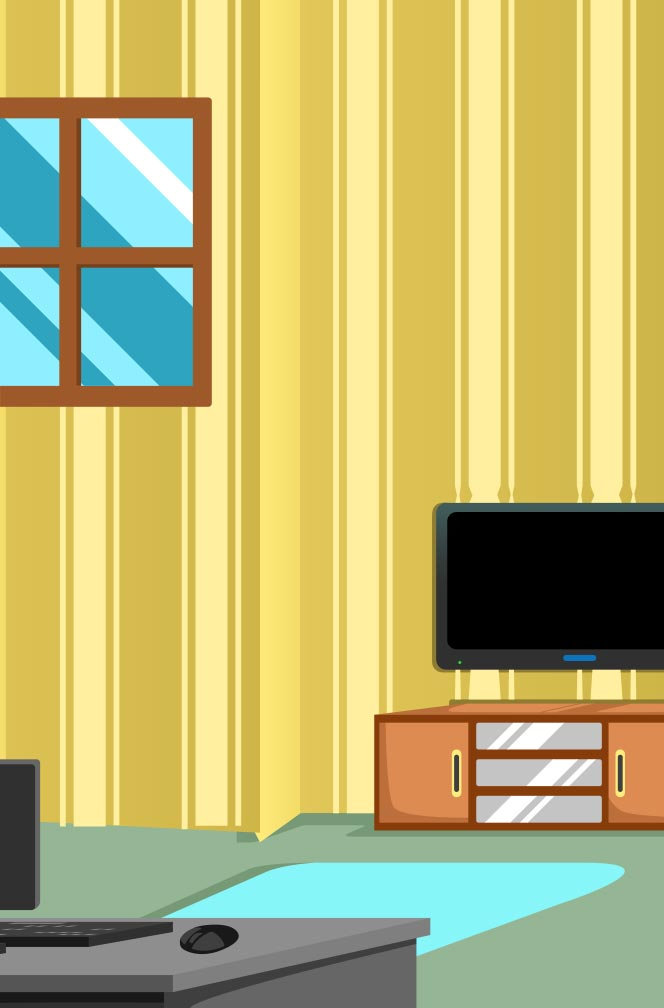
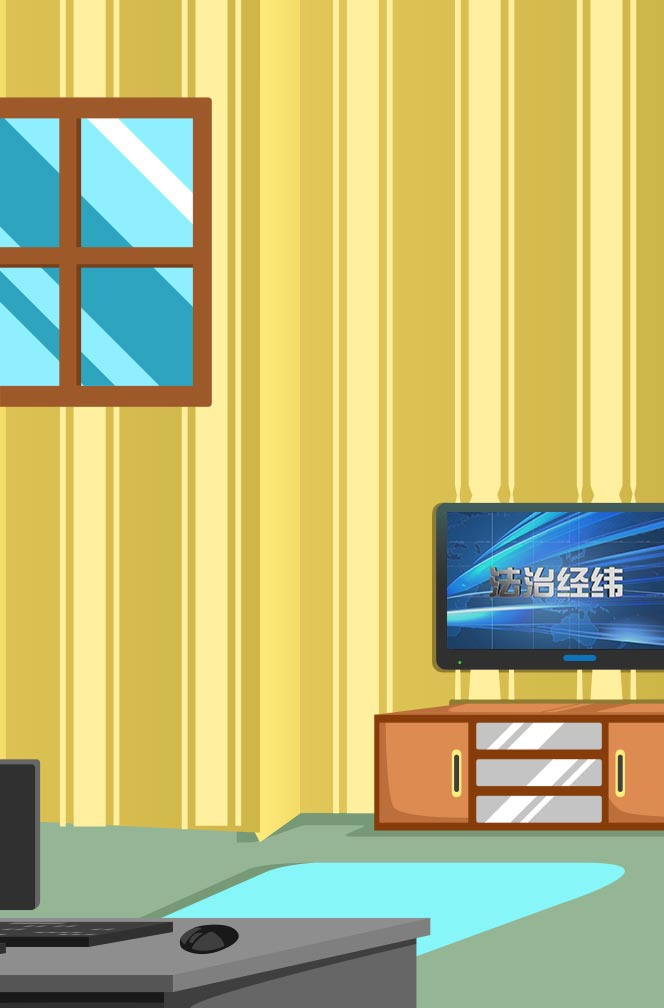
front 变换效果 第四页飞机轨迹

Changed region(s): [[0.6627, 0.4921, 1.0, 0.6458]]

diff --git a/style.scss b/style.scss
@@ -220,6 +220,25 @@ img {
   }
 }
 
+.front {
+  z-index: 1010;
+  visibility: hidden;
+  opacity: 0;
+  top: 50%;
+  left: 50%;
+  transform: translateX(-50%) translateY(-50%);
+}
+
+.front.active {
+  @include animation(fadeIn 1s);
+  visibility: visible;
+  opacity: 1;
+}
+
+.front.out {
+  @include animation(fadeOut 1s);
+}
+
 //page1
 .page1 {
   @include background(url("/images/1-bg1.jpg") center no-repeat);
@@ -260,7 +279,7 @@ img {
   .txt3 {
     top: 20%;
     left: 5%;
-    width: 30%;
+    width: 40%;
   }
   .mask {
     -webkit-mask-image: -webkit-linear-gradient(right, rgba(0, 0, 0, 1), rgba(0, 0, 0, 1));
@@ -291,22 +310,6 @@ img {
     visibility: hidden;
     opacity: 0;
     @include transition(all 2s);
-  }
-  .front {
-    z-index: 1010;
-    visibility: hidden;
-    opacity: 0;
-    top: 50%;
-    left: 50%;
-    transform: translateX(-50%) translateY(-50%);
-  }
-  .front.active {
-    @include animation(fadeIn 1s);
-    visibility: visible;
-    opacity: 1;
-  }
-  .front.out {
-    @include animation(fadeOut 1s);
   }
   //缓动
   .trans.active {
@@ -343,6 +346,12 @@ img {
     @include transition(all 2s);
     visibility: visible;
     opacity: 1;
+  }
+
+  video{
+    @include center;
+    width: 100%;
+    z-index:1010;
   }
 }
 
@@ -521,6 +530,10 @@ img {
   width: 50px;
 }
 
+.flash {
+  @include animation(flash 1.0s ease-in alternate-reverse infinite);
+}
+
 .plane.show,
 .plane-bottom.show {
   visibility: visible;
@@ -533,22 +546,47 @@ img {
   opacity: 0;
 }
 
-.plane-bottom.flash {
-  @include animation(flash 1.0s ease-in alternate-reverse infinite);
-}
-
 .plane.show-entry,
 .plane-bottom.show-entry {
   @include transition(all 1s);
 }
 
 .plane-bottom {
+  width: 90px;
+  .plane-wrapper {
+    position: relative;
+    width: 50px;
+    height: 50px;
+    margin: 0 auto;
+    .plane-bgc {
+      width: 100%;
+      height: 100%;
+      background-color: #ccc;
+      border: 2px solid #777;
+      border-radius: 50%;
+      @include transform(scale(0.7,
+      0.7));
+      opacity: 0.4;
+    }
+    img {
+      @include center;
+    }
+  }
   left: 50%;
-  bottom: 7%;
+  bottom: 5%;
   @include transform(translateX(-50%));
-  font-size: 12px;
   .plane-txt {
+    display: block;
+    margin: 0 auto;
+    text-align: center;
     line-height: 20px;
+    font-size: 14px;
+    font-weight: bolder;
+    color: #444;
+    font-family: '黑体';
+    background-color: #ccc;
+    border-radius: 10px;
+    margin: 5px;
   }
 }
 
@@ -647,9 +685,13 @@ img {
 
 @include keyframes(flash) {
   from {
-    opacity: 0.5;
+    @include transform(scale(0.7,
+    0.7));
+    opacity: .4;
   }
   to {
-    opacity: 1;
+    @include transform(scale(0.9,
+    0.9));
+    opacity: .4;
   }
 }

diff --git a/index.html b/index.html
@@ -19,7 +19,10 @@
     </audio>
   </div>
   <div class="plane-bottom">
-    <img src="images/plane2.png" alt="">
+    <div class="plane-wrapper">
+      <div class="plane-bgc"></div>
+      <img src="images/plane2.png" alt="">
+    </div>
     <label class="plane-txt">点击进入</label>
   </div>
   <section class="page page1 is-show">
@@ -40,8 +43,8 @@
       <img src="images/2-rect.png" alt="" class="rect mask">
       <img src="images/2-paper.png" alt="" class="paper trans">
       <img src="images/2-people.png" alt="" class="people trans">
-      <img src="images/2-front1.jpg" alt="" class="front1 front">
-      <img src="images/2-front2.jpg" alt="" class="front2 front">
+      <img src="images/2-front2.jpg" alt="" class="front1 front">
+      <img src="images/2-front1.jpg" alt="" class="front2 front">
     </div>
   </section>
   <section class="page page3">
@@ -49,7 +52,7 @@
       <img src="images/plane2.png" alt="">
     </div>
     <div class="main">
-      <!-- <img src="images/3-tv.png" alt="" class="tv trans"> -->
+      <video src="video/video.mp4" poster="images/video-poster.jpg" controls></video>
       <img src="images/3-kid.png" alt="" class="kid trans">
       <img src="images/3-mom.png" alt="" class="mom trans">
     </div>
@@ -82,15 +85,14 @@
     <div class="main">
       <div class="video-wrapper">
       </div>
-      <img src="images/1-txt1.png" alt="" class="txt head">
       <img src="images/6-txt1.png" alt="" class="txt sub">
     </div>
   </section>
   <section class="page page7">
     <div class="main">
-      <img src="images/1-txt1.png" class="txt head" alt="">
-      <img src="images/7-txt1.png" class="txt sub" alt="">
-      <img src="images/qrcode.png" class="qrcode" alt="">
+      <img src="images/7-txt1.png" class="txt head" alt="">
+      <img src="images/7-txt2.png" class="txt sub" alt="">
+      <img src="images/qrcode.jpg" class="qrcode" alt="">
     </div>
   </section>
   <script src="http://localhost:8080/webpack-dev-server.js"></script>

diff --git a/script.js b/script.js
@@ -100,8 +100,9 @@ var pageBegin = (pageNum, cb) => {
       yield timeout(convertToMs(plane.css('-webkit-transition-duration')))
       yield addClass(planeBot, 'show-entry show', timeDelay)
       planeBot.removeClass('hide')
-      yield [removeClass(planeBot, 'show-entry', timeDelay), addClass(planeBot, 'flash', timeDelay),
+      yield [removeClass(planeBot, 'show-entry', timeDelay), addClass('.plane-bottom .plane-bgc', 'flash', timeDelay),
         click(planeBot).then(() => {
+          $('.plane-bgc').hide()
           planeBot.addClass('fly-out')
         })
       ]
@@ -110,6 +111,7 @@ var pageBegin = (pageNum, cb) => {
         plane.addClass('plane')
         planeBot.removeClass()
         planeBot.addClass('plane-bottom')
+        $('.plane-bgc').show()
         $('.page' + nextPage).trigger('begin')
       })
     })
@@ -167,8 +169,7 @@ $(window).on('load', function() {
     yield addClass(plane, 'fly1', timeDelay)
     yield addClass('.page2 .front1', 'active', timeDelay + convertToMs(plane.css('-webkit-transition-duration')))
     yield addClass('.page2 .front1', 'out', 3 * timeDelay)
-    yield [removeClass('.page2 .front1', 'out active', timeDelay)
-    ,addClass('.page2 .front2', 'active', 0)]
+    yield [removeClass('.page2 .front1', 'out active', timeDelay), addClass('.page2 .front2', 'active', 0)]
     yield addClass('.page2 .front2', 'out', 3 * timeDelay)
     yield removeClass('.page2 .front2', 'out active', timeDelay)
       // yield click('.page2 .front').then(() => {
@@ -225,7 +226,6 @@ $(window).on('load', function() {
     BgTransform.bt5.removeCss()
     plane.addClass('hide')
 
-    yield addClass('.page6 .head', 'active', timeDelay)
     yield addClass('.page6 .sub', 'active', timeDelay)
 
   })
@@ -243,7 +243,7 @@ $(window).on('load', function() {
   })
 
 
-  $('.page1').trigger('begin')
+  $('.page2').trigger('begin')
 
 
 })
